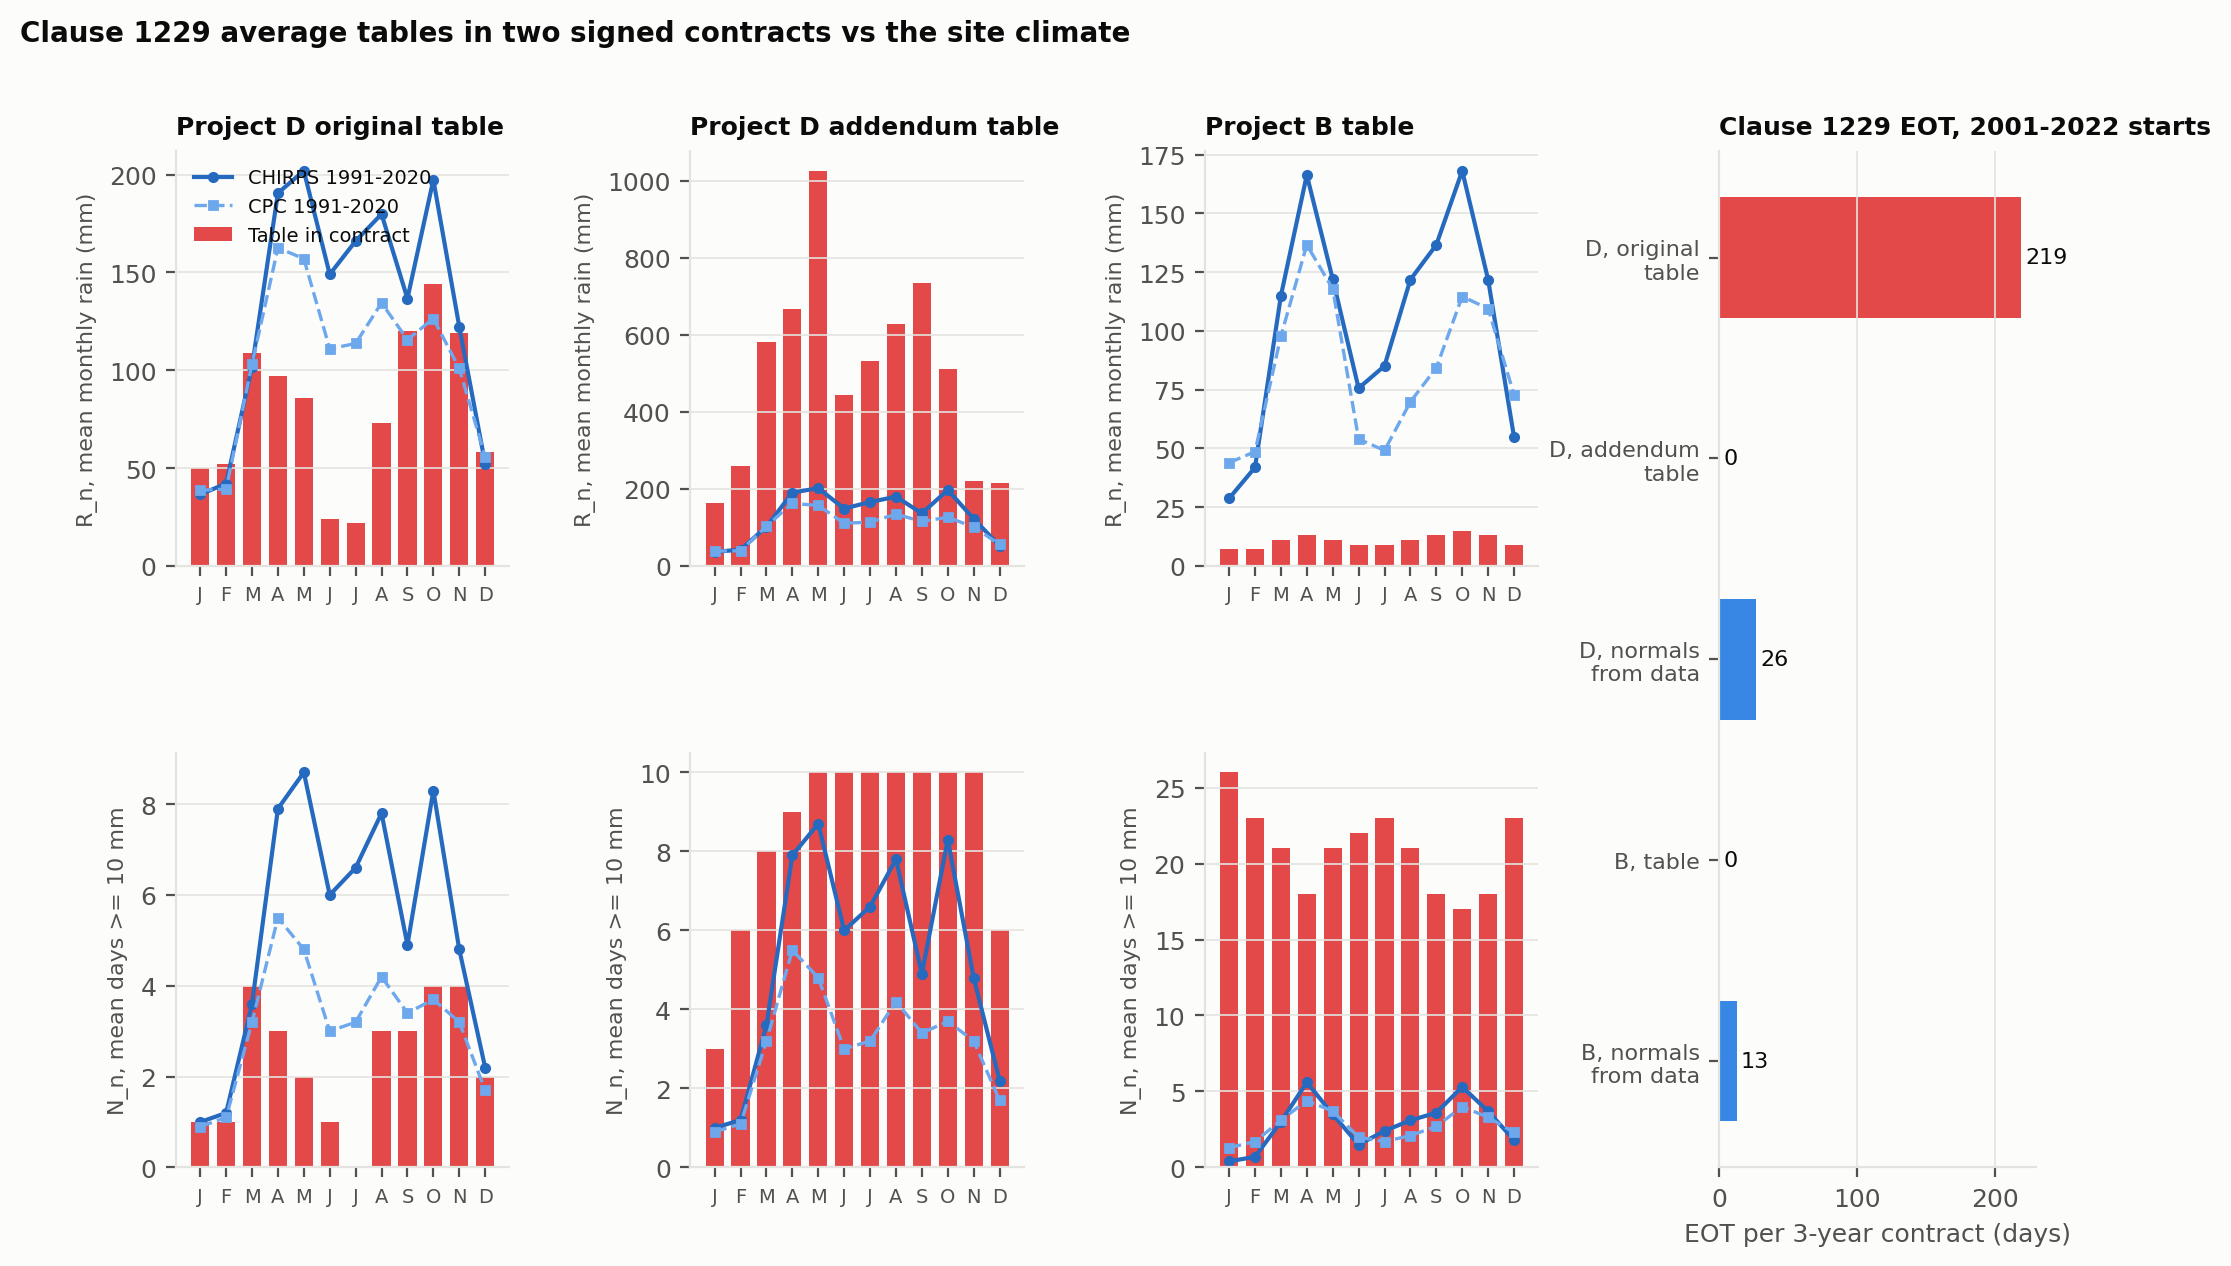
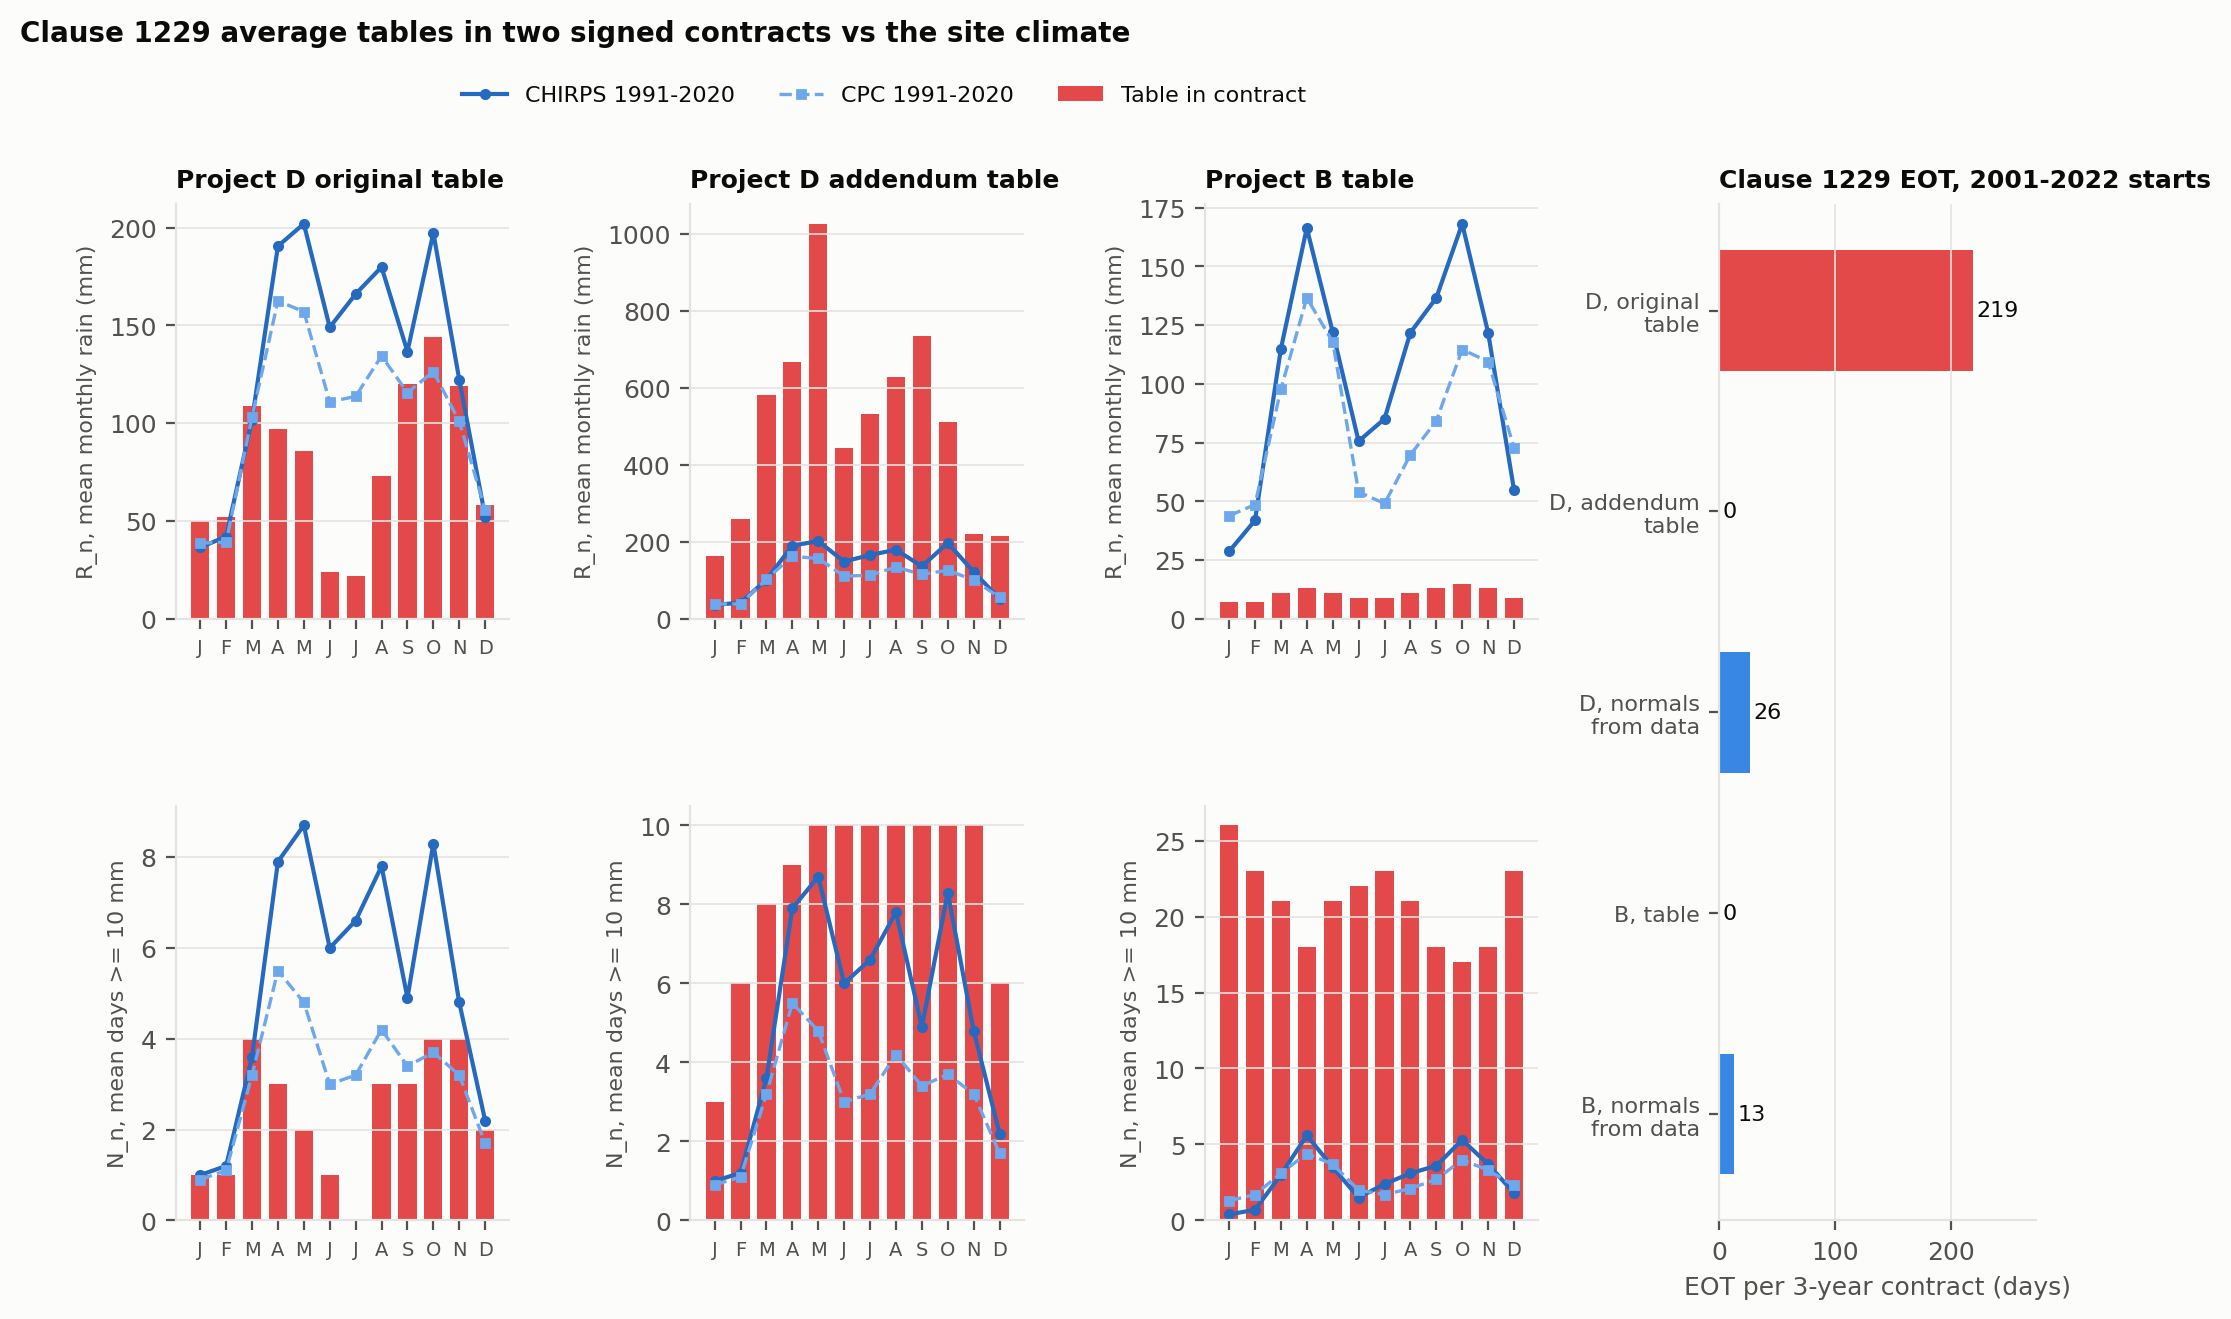
Fix overlapping legend and labels in contract-tables figures; rebuild Word manuscript

diff --git a/src/figs_extra.py b/src/figs_extra.py
@@ -54,6 +54,7 @@ def fig10(substack=False):
         ax.bar(range(3), vals, color=[RED[3], RED[5], BLUE[3]], width=0.6)
         for i, v in enumerate(vals):
             ax.text(i, v + 4, f"{v:.0f} days", ha="center", fontsize=10, fontweight="bold")
+        ax.set_ylim(0, max(vals) * 1.18)
         ax.set_xticks(range(3), [r[0] for r in rows])
         ax.set_ylabel("Weather extension per 3-year contract")
         ax.set_title("Same contract, same rain: the rainfall table decides", loc="left")
@@ -77,7 +78,7 @@ def fig10(substack=False):
             ax.set_ylabel("R_n, mean monthly rain (mm)" if var == "Rn" else "N_n, mean days >= 10 mm", fontsize=8)
             tidy(ax)
             if i == 0 and j == 0:
-                ax.legend(fontsize=7, loc="upper left")
+                handles, labels = ax.get_legend_handles_labels()
     ax = fig.add_subplot(gs[:, 3])
     ev = e["EOT per contract (algebraic)"].values
     lab = ["D, original\ntable", "D, addendum\ntable", "D, normals\nfrom data", "B, table", "B, normals\nfrom data"]
@@ -89,9 +90,11 @@ def fig10(substack=False):
     ax.set_yticks(range(len(vals)), lab, fontsize=8)
     ax.invert_yaxis()
     ax.set_xlabel("EOT per 3-year contract (days)")
+    ax.set_xlim(0, max(vals) * 1.25)
     ax.set_title("Clause 1229 EOT, 2001-2022 starts", fontsize=9)
     ax.grid(axis="y", visible=False)
-    fig.suptitle("Clause 1229 average tables in two signed contracts vs the site climate", x=0.06, ha="left",
+    fig.legend(handles, labels, loc="upper center", bbox_to_anchor=(0.42, 0.985), ncol=3, fontsize=8, frameon=False)
+    fig.suptitle("Clause 1229 average tables in two signed contracts vs the site climate", x=0.06, y=1.02, ha="left",
                  fontweight="bold", fontsize=10)
     save(fig, "fig10_contract_tables")
     plt.close(fig)
